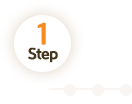
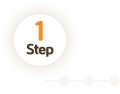
1111

diff --git a/sub2.html b/sub2.html
@@ -1,0 +1,128 @@
+<!DOCTYPE html>
+<html lang="en">
+<head>
+    <meta charset="UTF-8">
+    <meta name="viewport" content="width=device-width, initial-scale=1.0">
+    <meta http-equiv="X-UA-Compatible" content="ie=edge">
+    <title>Document</title>
+    <link rel="stylesheet" href="./css/reset.css">
+    <link rel="stylesheet" href="./css/common.css">
+    <link rel="stylesheet" href="./css/sub.css">
+	<link rel="stylesheet" href="https://cdnjs.cloudflare.com/ajax/libs/Swiper/4.2.6/css/swiper.min.css">
+    <script src="./js/jquery-1.11.2.min.js"></script>
+    <script src="https://cdnjs.cloudflare.com/ajax/libs/Swiper/4.2.6/js/swiper.min.js"></script>
+    <script src="https://cdnjs.cloudflare.com/ajax/libs/gsap/1.19.1/TweenMax.min.js"></script>
+</head>
+<body>
+    <div class="page-wrap">
+        <div class="header-wrap">
+            <div class="inner">
+                <div class="logo">
+                    <img src="./images/logo.png" alt="현대해상 로고">
+                </div>
+                <div class="menu">
+                    <a href="#" class="_1"></a>
+                    <a href="#" class="_2"></a>
+                    <a href="#" class="_3"></a>
+                    <a href="#" class="_4"></a>
+                </div>
+            </div>
+        </div>
+        <div class="sub-wrap">
+            <div class="inner">
+                <div class="step-area _2">
+                    <!-- <div class="step-num _1"> -->
+                        <img src="./images/sub_step2_icon.png" alt="">
+                    <!-- </div> -->
+                    <!-- <div class="step-rail"></div> -->
+                </div>
+                <div class="title-area _2">
+                    <img src="./images/sub_step2_title.png" alt="">
+                </div>
+                <div class="slider-area">
+                    <div class="swiper-container slide-wrap">
+                        <div class="swiper-wrapper">
+                            <div class="swiper-slide slide">
+                                <img src="./images/sub_step2_card1.png" alt="">
+                            </div>
+                            <div class="swiper-slide slide">
+                                <img src="./images/sub_step2_card2.png" alt="">
+                            </div>
+                            <div class="swiper-slide slide">
+                                <img src="./images/sub_step2_card3.png" alt="">
+                            </div>
+                            <div class="swiper-slide slide">
+                                <img src="./images/sub_step2_card4.png" alt="">
+                            </div>
+                            <div class="swiper-slide slide">
+                                <img src="./images/sub_step2_card5.png" alt="">
+                            </div>
+                        </div>
+                    </div>
+                    <div class="prev-button">
+                        <button type="button" class="button-prev">
+                            <img src="./images/sub_prev_btn.png" alt="">
+                        </button>
+                    </div>
+                    <div class="next-button">
+                        <button type="button" class="button-next">
+                                <img src="./images/sub_next_btn.png" alt="">
+                        </button>
+                    </div>
+                    <div class="text-area">
+                        <div class="text-line">
+                            <span>To.</span>
+                            <div class="input"><input type="text" placeholder="받으시는 분"></div>
+                        </div>
+                        <div class="text-line2 first">
+                            <div class="input"><input type="text" placeholder="내용을 입력해 주세요"></div>
+                        </div>
+                        <div class="text-line2">
+                            <div class="input"><input type="text" placeholder="내용을 입력해 주세요"></div>
+                        </div>
+                        <div class="text-line2">
+                            <div class="input"><input type="text" placeholder="내용을 입력해 주세요"></div>
+                        </div>
+                        <div class="text-line2">
+                            <div class="input"><input type="text" placeholder="내용을 입력해 주세요"></div>
+                        </div>
+                        <div class="text-line2">
+                            <div class="input"><input type="text" placeholder="내용을 입력해 주세요"></div>
+                        </div>
+                    </div>
+                </div>
+                <div class="num-area">
+                    <img src="./images/sub_step2_num1.png" alt="">
+                </div>
+                <div class="btn-area _2">
+                    <button type="button">
+                        <img src="./images/sub_step2_btn.png" alt="">
+                    </button>
+                </div>
+            </div>
+        </div>
+        <div class="footer-wrap">
+            <div class="copyright">
+                <img src="./images/sub_copyright.png" alt="">
+            </div>
+        </div>
+    </div>
+    <script>
+        var swiper = new Swiper ('.slide-wrap', {
+			// Optional parameters
+			direction: 'horizontal',
+			loop: true,
+			slidesPerView: '1',
+			// slidesPerGroup: 5,
+			// loopFillGroupWithBlank: true,
+			// spaceBetween: 22,
+			// touchAngle: 75,
+			navigation: {
+				nextEl: '.button-next',
+				prevEl: '.button-prev',
+			}
+		})
+
+    </script>
+</body>
+</html>

diff --git a/css/sub.css b/css/sub.css
@@ -1,20 +1,18 @@
 body {
 	font-size: 0;
+	min-width: 1200px;
+	min-height: 800px;
 }
 img {
 	width: 100%;
 }
 .page-wrap {
-	background: url(../images/sub_bg.png) center top / cover no-repeat;
+	background: url(../images/sub_bg.png) center bottom / cover no-repeat;
 	width: 100%;
 	height: 100%;
-	/* background-size: cover; */
 }
 .header-wrap {
 	width: 100%;
-	height: 112px;
-	/* background: #fff; */
-	/* position: fixed; */
 	top: 0;
 	z-index: 5;
 }
@@ -22,7 +20,6 @@ img {
 .header-wrap .inner {
 	position: relative;
 	width: 1219px;
-	height: 112px;
 	font-size: 0;
 	margin: 0 auto;
 }
@@ -63,64 +60,128 @@ img {
 }
 .sub-wrap {
 	width: 100%;
-	/* height: 100%; */
 }
 .sub-wrap .inner {
-	/* width: 766px; */
 	height: 100%;
 	margin: 0 auto;
 }
 .sub-wrap .inner .step-area {
-	/* width: 140px; */
-	/* width: 9.25%; */
-	width: 6.875%;
 	margin: 0 auto;
+	/* margin-top: 0.35%; */
 }
-/* .sub-wrap .inner .step-area .step-num._1 { */
-	/* background: url(../images/sub_step1.png) center top / cover no-repeat; */
-	/* width: 86px; */
-	/* width: 61.4%; */
-	/* height: 87px; */
-	/* margin: 0 0 -2px -14px; */
-/* } */
-.sub-wrap .inner .step-area .step-rail {
-	background: url(../images/sub_rail.png);
-	width: 96px;
-	height: 12px;
-	margin: 0 auto;
+.sub-wrap .inner .step-area._1 {
+	width: 6.25%;
+}
+.sub-wrap .inner .step-area._2 {
+	width: 5%;
 }
 .sub-wrap .inner .title-area {
-	/* background: url(../images/sub_title1.png);
-	width: 502px;
-	height: 91px; */
-	width: 26.1458%;
 	margin: 0 auto;
-	margin-top: 36px;
+	margin-top: 0.625%;
+}
+.sub-wrap .inner .title-area._1 {
+	width: 26.1458%;
+}
+.sub-wrap .inner .title-area._2 {
+	width: 24.01%;
 }
 .sub-wrap .inner .video-area {
-	/* width: 733px; */
-	width: 38.177%;
-	/* height: 389px; */
+	width: 43.125%;
 	margin: 0 auto;
-	margin-top: 55px;
+	margin-top: 1.927%;
 }
-.sub-wrap .inner .btn-area {
+.sub-wrap .inner .btn-area._1 {
 	text-align: center;
-	margin-top: 75px;
+	margin-top: 2.135%;
 }
-.sub-wrap .inner .btn-area button{
+.sub-wrap .inner .btn-area._1 button{
 	background: url(../images/sub_step1_btn.png);
 	width: 363px;
 	height: 72px;
 }
-.footer-wrap {
+.sub-wrap .inner .num-area {
+	width: 4.166%;
+	margin: 0 auto;
+	margin-top: 0.885%;
+}
+.sub-wrap .inner .text-area {
 	position: absolute;
+	width: 36%;
+	left: 32%;
+	top: 26%;
+	z-index: 9;
+	text-align: left;
+}
+.sub-wrap .inner .text-area .text-line {
+	width: 80%;
+	margin-left: 17%;
+}
+.sub-wrap .inner .text-area .text-line span{
+	font-size: 16px;
+	font-weight: bold;
+	color: #dd7722;
+}
+.sub-wrap .inner .text-area .text-line .input{
+	display: inline-block;
+	width: 60%;
+}
+.sub-wrap .inner .text-area .text-line .input input{
 	width: 100%;
-	bottom: 0;
+	font-size: 16px;
+}
+.sub-wrap .inner .text-area .text-line2 {
+	margin-top: 6%;
+}
+.sub-wrap .inner .text-area .text-line2.first {
+	margin-top: 0%;
+}
+.sub-wrap .inner .text-area .text-line2 .input input{
+	width: 100%;
+	font-size: 15px;
+	text-align: center;
+}
+.sub-wrap .inner .slider-area {
+	position: relative;
+	text-align: center;
+	font-size: 0;
+	width: 23.125%;
+	margin: 0 auto;
+	margin-top: 1.458%
+}
+.sub-wrap .inner .slider-area .slide-wrap {
+	position: relative;
+	width: 54.575%;
+	margin: 0 auto;
+	display: inline-block;
+}
+.sub-wrap .inner .slider-area .prev-button {
+	position: absolute;
+	top: 50%;
+	left: 0;
+	margin-top: -74px;
+	width: 23.423%;
+}
+.sub-wrap .inner .slider-area .next-button {
+	position: absolute;
+	top: 50%;
+	right: 0;
+	margin-top: -74px;
+	width: 23.423%;
+}
+.sub-wrap .inner .btn-area._2 {
+	text-align: center;
+	margin-top: 1.197%;
+}
+.sub-wrap .inner .btn-area._2 button{
+	width: 18.906%;
+	height: 3.75%;
+}
+
+.footer-wrap {
+	position: relative;
+	padding: 2.291% 0 1.927% 0;
 }
 .footer-wrap .copyright {
-	background: url(../images/sub_copyright.png);
-	width: 380px;
-	height: 13px;
+	width: 19.791%;
 	margin: 0 auto;
 }

diff --git a/sub1.html b/sub1.html
@@ -30,21 +30,21 @@
         </div>
         <div class="sub-wrap">
             <div class="inner">
-                <div class="step-area">
+                <div class="step-area _1">
                     <!-- <div class="step-num _1"> -->
                         <img src="./images/sub_step1_icon.png" alt="">
                     <!-- </div> -->
                     <!-- <div class="step-rail"></div> -->
                 </div>
                 <div class="title-area _1">
-                    <img src="./images/sub_title1.png" alt="">
+                    <img src="./images/sub_step1_title.png" alt="">
                 </div>
                 <div class="video-area">
                     <div>
                         <img src="./images/sub_video_sample.png" alt="">
                     </div>
                 </div>
-                <div class="btn-area">
+                <div class="btn-area _1">
                     <button type="button"></button>
                 </div>
             </div>
